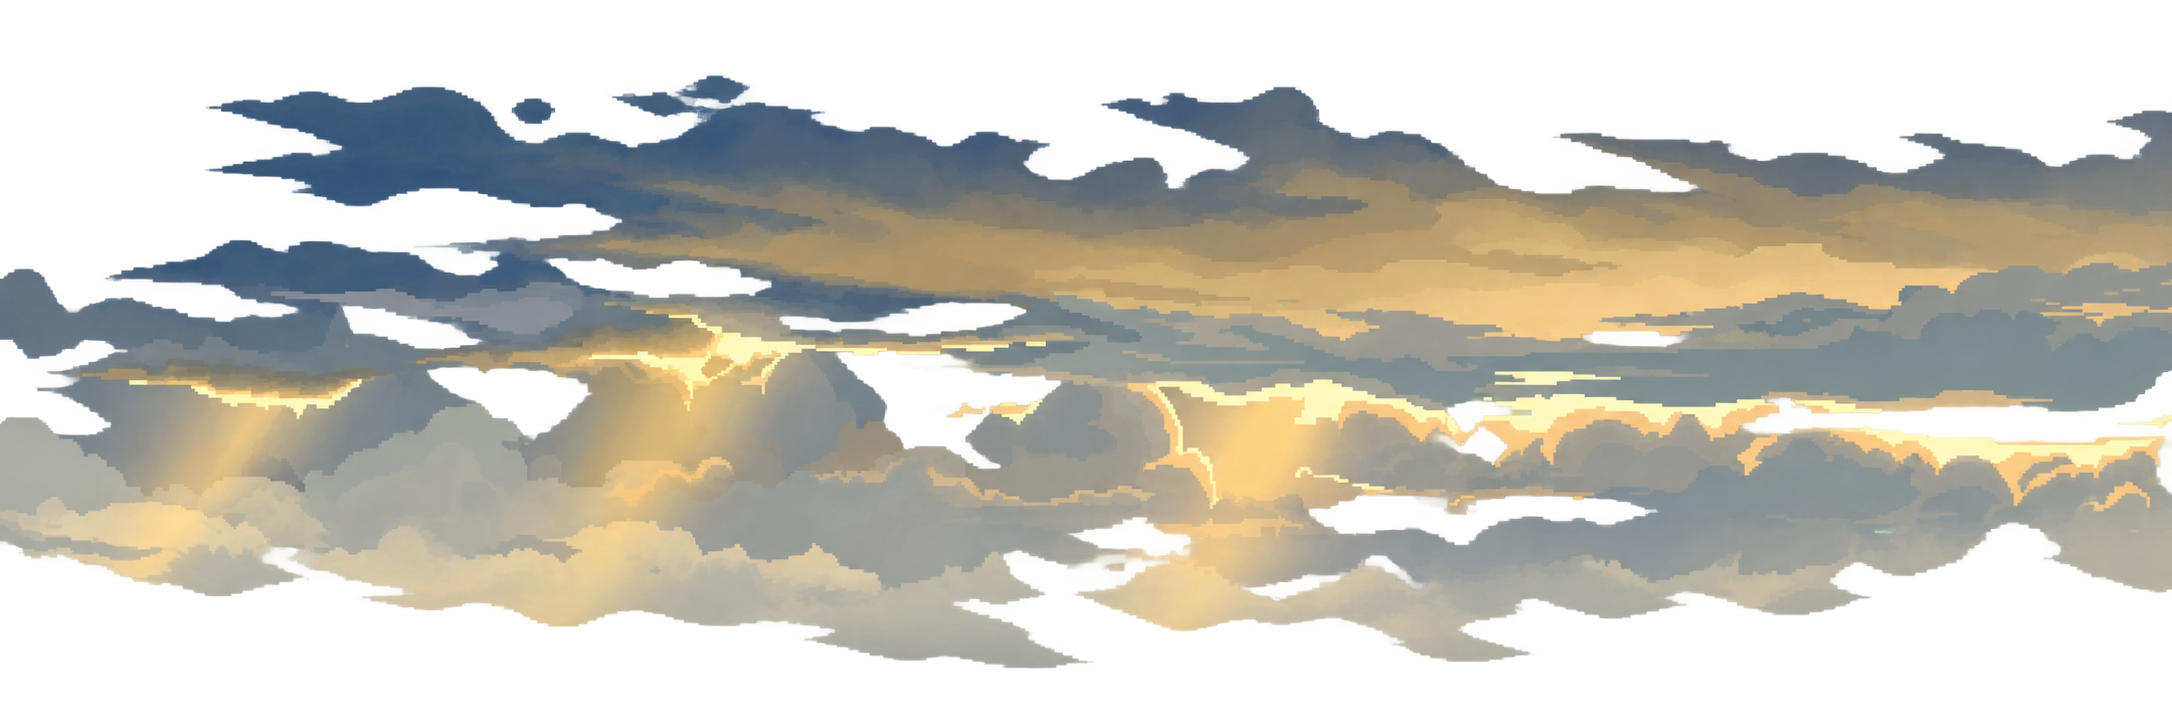
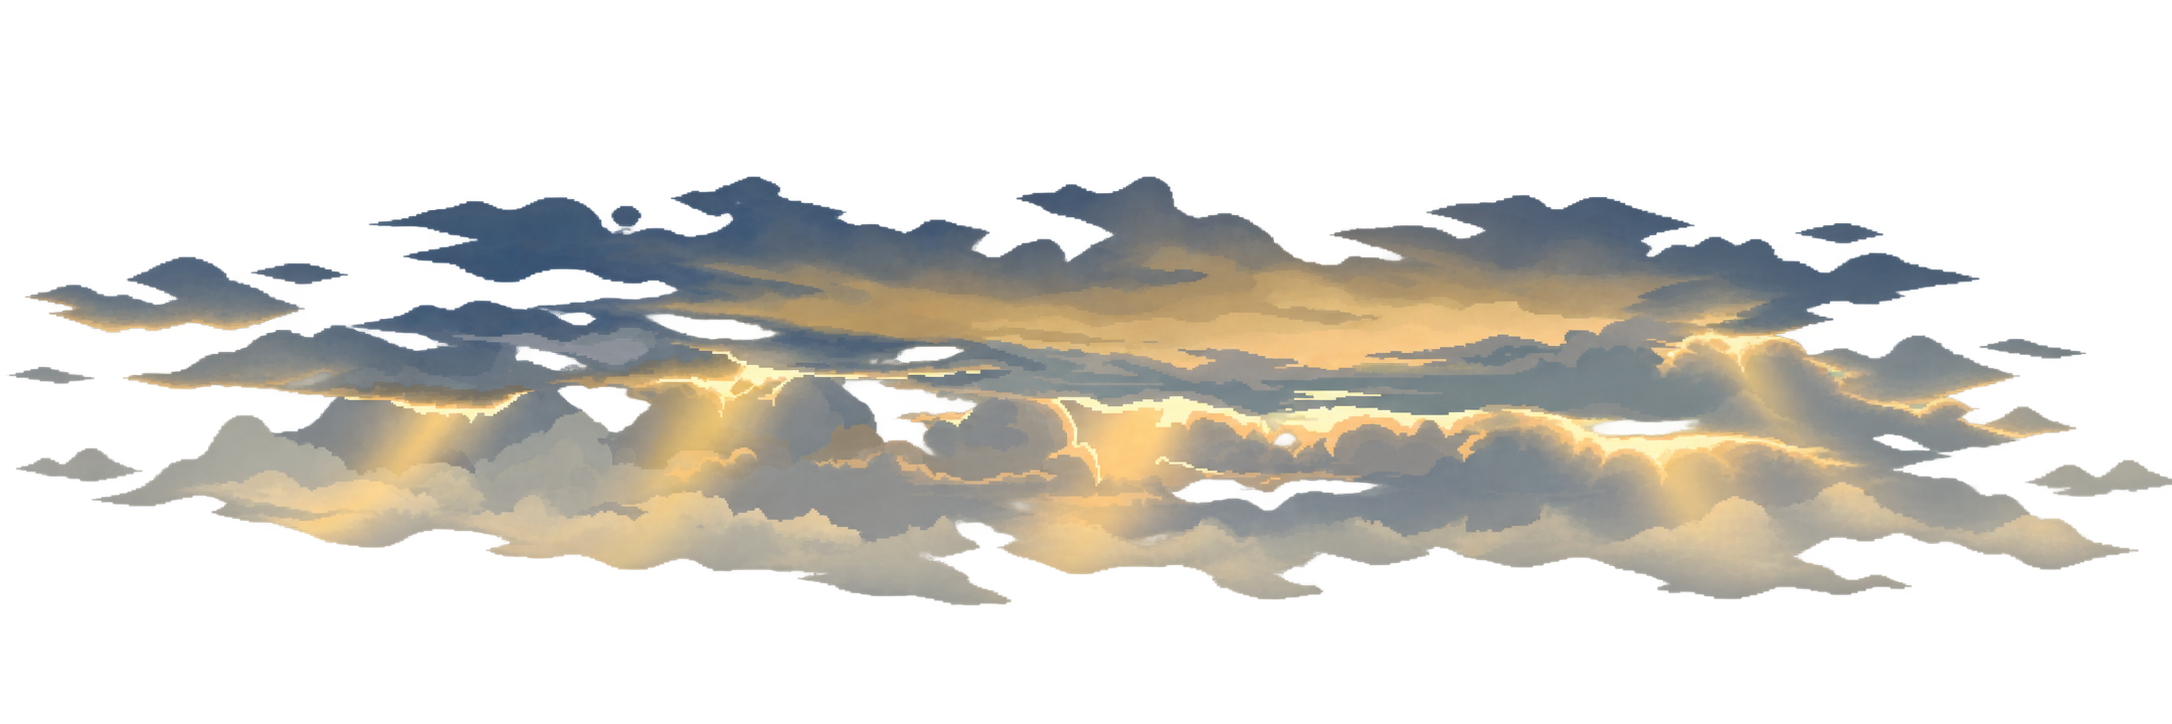
Updated parallax system, added new level 1 background

diff --git a/source/core/src/main/com/csse3200/game/rendering/BackgroundRenderComponent.java b/source/core/src/main/com/csse3200/game/rendering/BackgroundRenderComponent.java
@@ -27,6 +27,7 @@ public class BackgroundRenderComponent extends RenderComponent {
     private final Vector2 velocity;
     private Vector2 position;
     private final boolean repeat;
+    private final float distance;
 
     ParallaxLayer(
         Texture texture,
@@ -36,7 +37,8 @@ public class BackgroundRenderComponent extends RenderComponent {
         Vector2 offset,
         BackgroundType backgroundType,
         Vector2 velocity,
-        boolean repeat) {
+        boolean repeat,
+        float distance) {
 
       this.texture = texture;
       this.parallaxFactor = parallaxFactor;
@@ -47,6 +49,7 @@ public class BackgroundRenderComponent extends RenderComponent {
       this.velocity = velocity;
       this.position = new Vector2(velocity);
       this.repeat = repeat;
+      this.distance = distance;
     }
   }
 
@@ -68,7 +71,9 @@ public class BackgroundRenderComponent extends RenderComponent {
   }
 
   /**
-   * Adds a parallax layer with a custom size and vertical position.
+   * Adds a parallax layer with a custom size and vertical position. Distance is a float between 0
+   * and 1. 1 causes the background to have no vertical movement, while 0 causes it to follow player
+   * directly.
    *
    * @param texturePath path to the texture
    * @param parallaxFactor controls how much the layer moves relative to player movement
@@ -78,6 +83,7 @@ public class BackgroundRenderComponent extends RenderComponent {
    * @param backgroundType the type of background this layer is
    * @param velocity the independent velocity of the layer
    * @param repeat whether or not this layer should repeat horizontally
+   * @param distance the distance from POV affecting vertical parallax movement
    */
   public void addLayer(
       String texturePath,
@@ -87,13 +93,22 @@ public class BackgroundRenderComponent extends RenderComponent {
       Vector2 offset,
       BackgroundType backgroundType,
       Vector2 velocity,
-      boolean repeat) {
+      boolean repeat,
+      float distance) {
 
     Texture texture = ServiceLocator.getResourceService().getAsset(texturePath, Texture.class);
 
     layers.add(
         new ParallaxLayer(
-            texture, parallaxFactor, width, height, offset, backgroundType, velocity, repeat));
+            texture,
+            parallaxFactor,
+            width,
+            height,
+            offset,
+            backgroundType,
+            velocity,
+            repeat,
+            distance));
   }
 
   /** Scale is controlled individually for each layer. */
@@ -148,7 +163,7 @@ public class BackgroundRenderComponent extends RenderComponent {
 
     float backgroundX =
         position.x + layer.offset.x + cameraX * (1f - layer.parallaxFactor.x) + layer.position.x;
-    float backgroundY = position.y + layer.offset.y + cameraY + layer.position.y;
+    float backgroundY = position.y + layer.offset.y + cameraY * layer.distance + layer.position.y;
 
     return new Vector2(backgroundX, backgroundY);
   }

diff --git a/source/core/src/main/com/csse3200/game/areas/TutorialGameArea.java b/source/core/src/main/com/csse3200/game/areas/TutorialGameArea.java
@@ -100,6 +100,9 @@ public class TutorialGameArea extends GameArea {
     "images/parallax/Mountains.png",
     "images/parallax/ground.png",
     "images/parallax/Rocks.png",
+    "images/parallax/level_1_background.png",
+    "images/parallax/level_1_clouds.png",
+    "images/parallax/level_1_furthest.png",
 
     // Enemy textures
     "images/skeleton_warrior.png",
@@ -190,25 +193,63 @@ public class TutorialGameArea extends GameArea {
 
     // Complete original background image
     backgroundComponent.addLayer(
-        "images/parallax/original_background.png",
+        "images/parallax/level_1_background.png",
         new Vector2(0.1f, 0f), // Parallax factor
         30f,
-        15f,
-        new Vector2(0f, 3.5f), // Positional offset
+        12f,
+        new Vector2(0f, 4.25f), // Positional offset
         BackgroundType.DEPENDENT,
         new Vector2(0f, 0f), // Independent velocity
-        false);
+        false,
+        1f);
 
     // Complete clouds image
     backgroundComponent.addLayer(
-        "images/parallax/Clouds.png",
+        "images/parallax/level_1_clouds.png",
+        new Vector2(0.1f, 0f), // Parallax factor
+        30f,
+        4f,
+        new Vector2(0f, 10f), // Positional offset
+        BackgroundType.DEPENDENT,
+        new Vector2(0.1f, 0f), // Independent velocity
+        true,
+        1f);
+
+    // Complete mountains image
+    backgroundComponent.addLayer(
+        "images/parallax/level_1_clouds.png",
         new Vector2(0.1f, 0f), // Parallax factor
         30f,
         15f,
-        new Vector2(0f, 3.5f), // Positional offset
+        new Vector2(25f, 7.5f), // Positional offset
         BackgroundType.DEPENDENT,
-        new Vector2(0.1f, 0f), // Independent velocity
-        true);
+        new Vector2(0.2f, 0f), // Independent velocity
+        true,
+        1f);
+
+    // Complete furthest mountains image
+    backgroundComponent.addLayer(
+        "images/parallax/level_1_furthest.png",
+        new Vector2(0.06f, 0f), // Parallax factor 0.12
+        30f,
+        7f,
+        new Vector2(5f, 6.5f), // Positional offset
+        BackgroundType.DEPENDENT,
+        new Vector2(0f, 0f), // Independent velocity
+        true,
+        1f);
+
+    // Complete second-furthest mountains image
+    backgroundComponent.addLayer(
+        "images/parallax/level_1_furthest.png",
+        new Vector2(0.12f, 0f), // Parallax factor 0.12
+        30f,
+        10f,
+        new Vector2(0f, 5f), // Positional offset
+        BackgroundType.DEPENDENT,
+        new Vector2(0f, 0f), // Independent velocity
+        true,
+        1f);
 
     // Create the background entity.
     Entity background = new Entity().addComponent(backgroundComponent);

diff --git a/source/core/src/main/com/csse3200/game/areas/Level2GameArea.java b/source/core/src/main/com/csse3200/game/areas/Level2GameArea.java
@@ -115,7 +115,8 @@ public class Level2GameArea extends GameArea {
         new Vector2(0f, 3.5f),
         BackgroundType.DEPENDENT,
         new Vector2(0f, 0f),
-        false);
+        false,
+        1f);
 
     Entity background = new Entity().addComponent(backgroundComponent);
     background.setPosition(backgroundPos);
